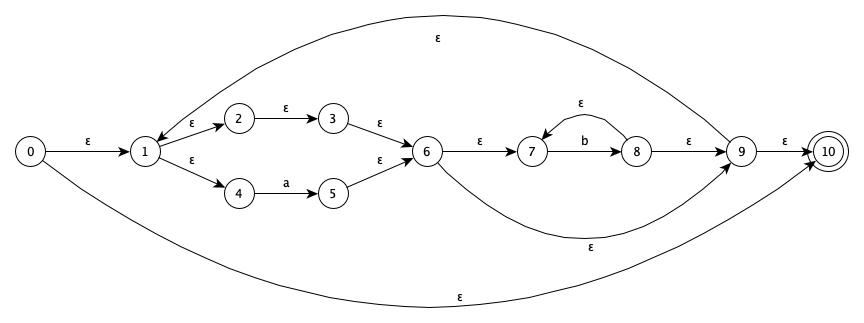
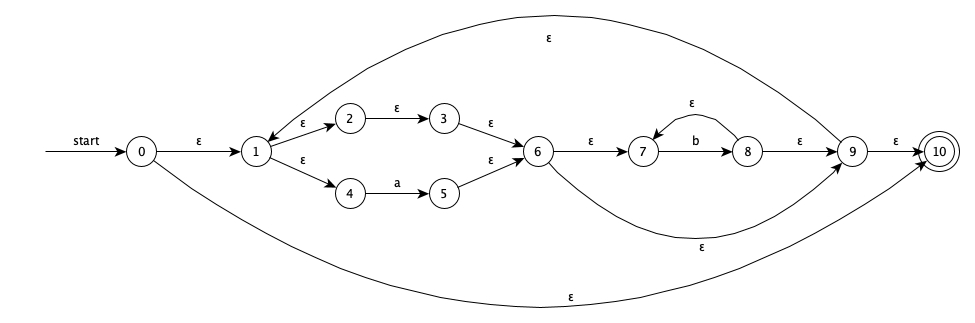
fix image add2.1e

diff --git a/HW2/PB16051314_徐亦舜_HW2.md b/HW2/PB16051314_徐亦舜_HW2.md
@@ -1,6 +1,7 @@
-# 9.9
-Chap2 2.1e;2.2;2.3e;2.4a,f,i;
+# 9.9日
+Chap2 2.1e; 2.2; 2.3e; 2.4a,f,i;
 ## 2.1e:
+{A-a、Z-z、0-9、<=>、[] _ ()、" '、% * . , ;、+-/、 }
 
 ## 2.2:
 long-->\<long>  
@@ -11,9 +12,9 @@ long-->\<long>
 q-->\<id,指向符号表中q条目的指针>  
 if-->\<if>  
 p-->\<id,指向符号表中p条目的指针>  
-%--><mod\ulo_op>  
+%-->\<modulo_op>  
 q-->\<id,指向符号表中q条目的指针>  
-==--><rel\ation,EQ>  
+==-->\<relation,EQ>  
 0-->\<number,0>  
 return-->\<return>  
 q-->\<id,指向符号表中q条目的指针>  
@@ -22,7 +23,7 @@ return-->\<return>
 gcd-->\<id,指向符号表中gcd条目的指针>  
 q-->\<id,指向符号表中q条目的指针>  
 p-->\<id,指向符号表中p条目的指针>  
-%--><mod\\ulo_op>  
+%-->\<modulo_op>  
 q-->\<id,指向符号表中q条目的指针>  
 
 ## 2.3e:
@@ -45,12 +46,12 @@ mida-->(ab+)\*
 enda-->a?  
 language-->begb mida enda  
 
-# 9.11
-9.11:Chap2 2.7c;2.11;2.15;
+# 9.11日
+Chap2 2.7c; 2.11; 2.15;
 
 ## 2.7c:
 ![图2.7](2.7.jpg)  
-ababbab  
+序列ababbab  
 0>1>4>5>6>7>8>9>1>4>5>6>7>8>7>8>9>1>4>5>6>7>8>9>10  
 
 ## 2.11
